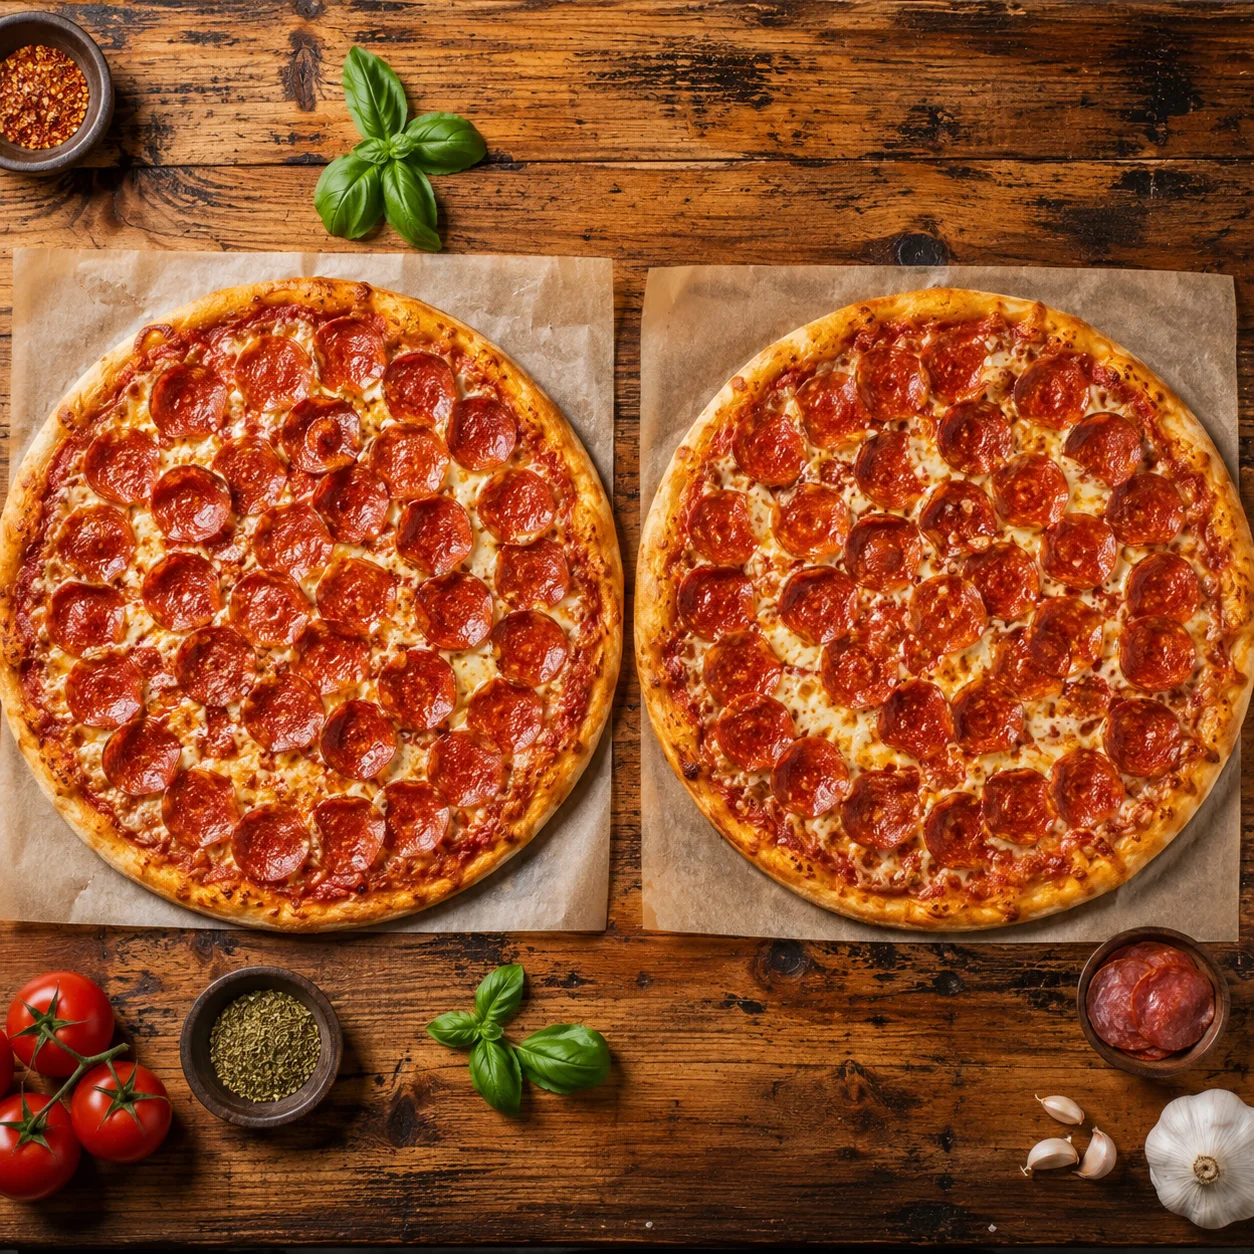
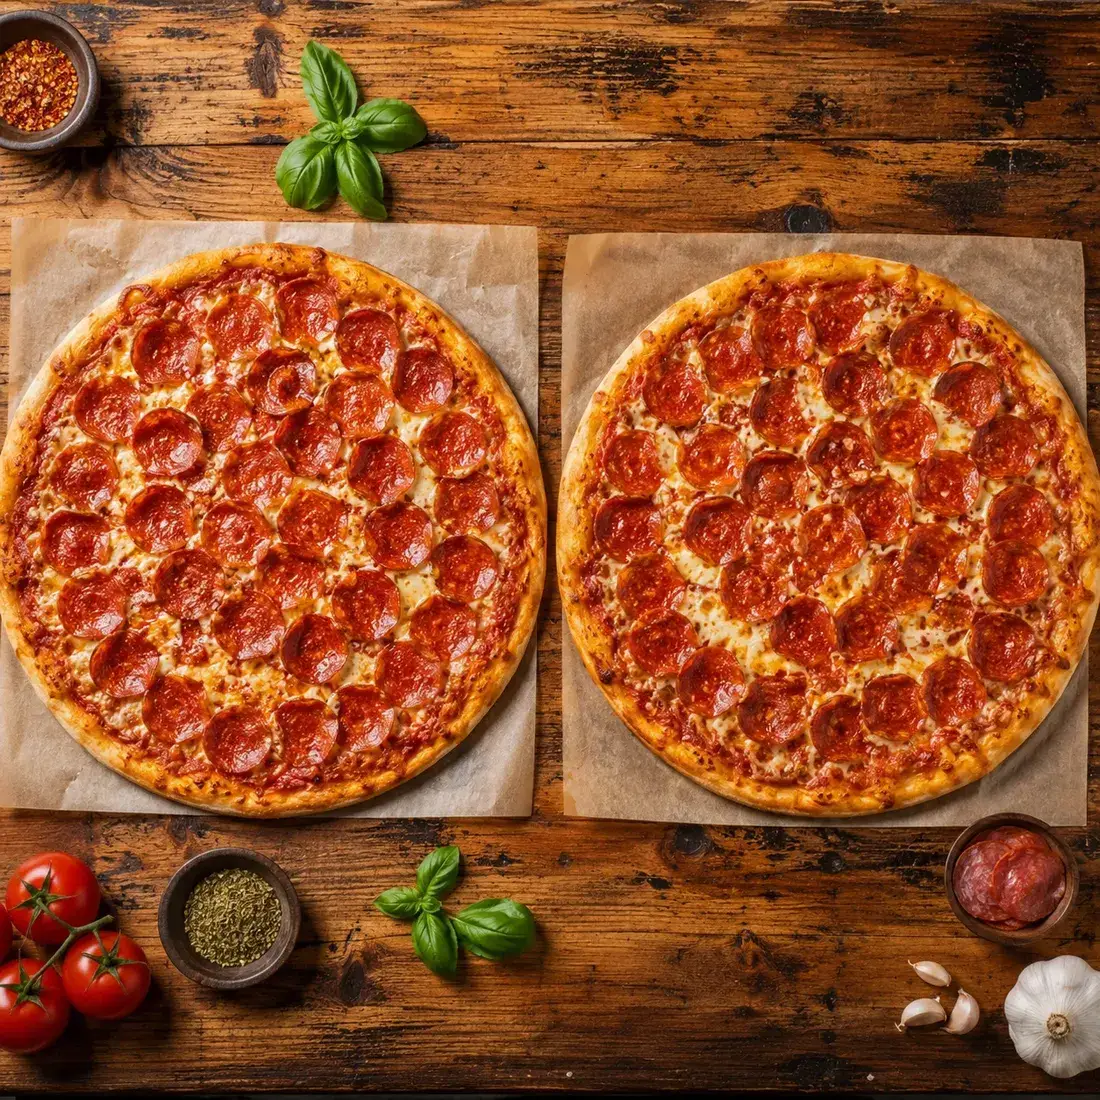
F5: fuentes self-hosted (@user latin, font-display swap), promo-xtragrande 468KB→194KB

Changed region(s): [[0.0, 0.0618, 0.0618, 0.0927]]

diff --git a/src/index.css b/src/index.css
@@ -1,4 +1,11 @@
-@import url('https://fonts.googleapis.com/css2?family=Special+Elite&family=Archivo:wght@400;500;600;700&family=Archivo+Black&display=swap');
+/* Fuentes self-hosted (font-display: swap, solo subset latin) —
+   sin @import bloqueante a Google Fonts */
+@import '@fontsource/special-elite/latin-400.css';
+@import '@fontsource/archivo-black/latin-400.css';
+@import '@fontsource/archivo/latin-400.css';
+@import '@fontsource/archivo/latin-500.css';
+@import '@fontsource/archivo/latin-600.css';
+@import '@fontsource/archivo/latin-700.css';
 @import 'tailwindcss';
 
 /* dark: como variante de clase — nunca se activa (sitio light por marca),